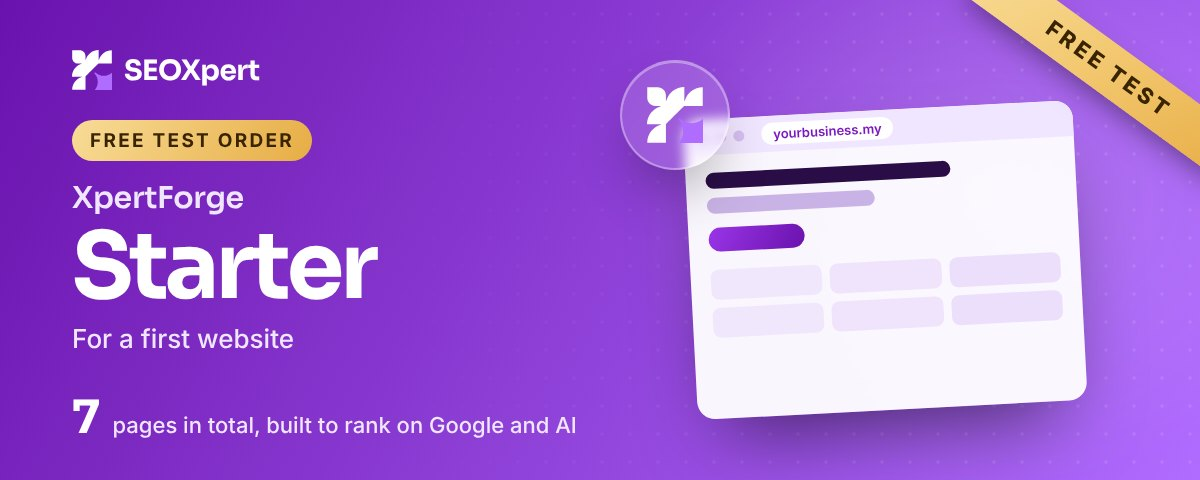
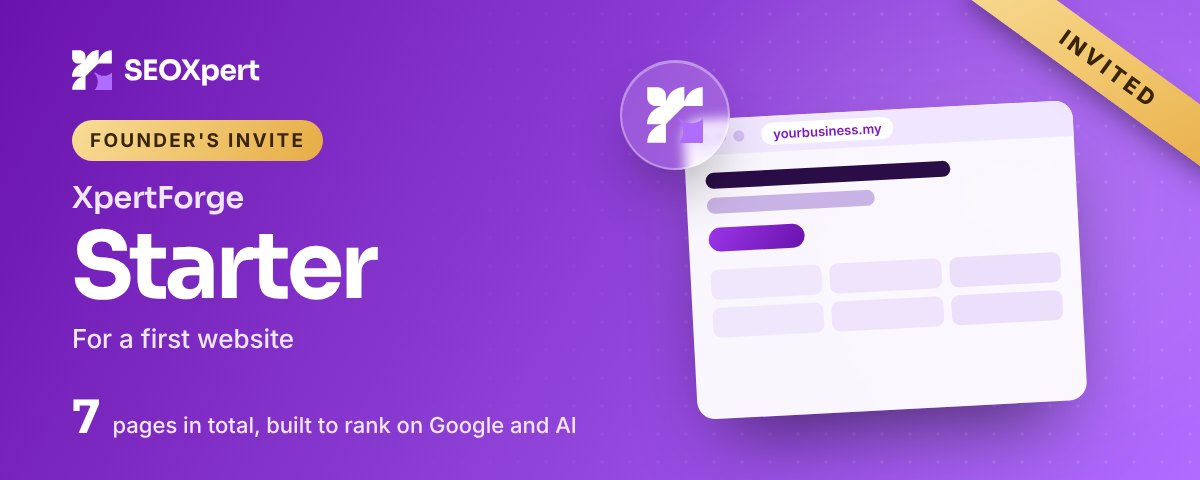
Order emails: richer paid emails, a personal 14-day founder's invite for free codes
Claude-Session: https://claude.ai/code/session_01UEox959XRaEh3eTcq7pdHm

diff --git a/functions/api/order-mail.js b/functions/api/order-mail.js
@@ -2,6 +2,9 @@
 // free codes and paid codes for all packages and all combos"). Sent by stripe-webhook.js, next to Stripe's own receipt.
 // One template; the header picture (public/img/mail/<package>[-free].jpg, made by scripts/make-mail.cjs), the steps and the
 // list of what is included change with the order:
+// Two voices (Suhen 2026-11-16): a PAID order gets the fuller, premium email (payment card, plan at a glance, button);
+// a FREE CODE order is a personal invite from our founder, 14 days only (XpertInsight stops the plan and the dashboard
+// after 14 days), and says to reach out for extra refreshes, bugs or ideas. A paid Trial is 14 days too and gets that line.
 //   trial      XpertRank Trial                         paid | free test code
 //   xpertrank  XpertRank Basic..Elite, website built elsewhere, monthly | yearly, paid | free
 //   build      XpertForge Starter/Business/Growth, paid in full (launch offer while it runs) | free
@@ -10,6 +13,9 @@
 // (it covers only a first paid month on websites we build, which is never bought here); never promise rankings.
 import { build, care, trial, yearly, offerOn } from '../../src/data/packages.ts';
 
+/** A founder's invite (free code) and the Trial both run this long. Keep matching GUEST_DAYS in xpertinsight lib/stripe.js. */
+export const GUEST_DAYS = 14;
+export const FOUNDER = 'Suhen';
 const SITE = 'https://seoxpert.my', INSIGHT = 'https://insight.seoxpert.my';
 const esc = (s) => String(s ?? '').replace(/[&<>"']/g, (c) => ({ '&': '&amp;', '<': '&lt;', '>': '&gt;', '"': '&quot;', "'": '&#39;' }[c]));
 const plain = (s) => String(s).replace(/<[^>]+>/g, '');
@@ -25,80 +31,103 @@ export function orderOf(o, { invited } = {}) {
   const name = String(box.name || (o.customer_details && o.customer_details.name) || '').trim();
   const t = kind === 'trial' ? trial : kind === 'build' ? build.tiers.find((x) => x.id === id) : care.tiers.find((x) => x.id === id);
   if (!t) return null;
-  return { kind, id, t, free, email, first: name.split(/\s+/)[0] || 'there', site: box.website || '', company: box.company || '', bill: m.bill || 'once', built: m.built === 'us' ? 'us' : 'other', paid: money(o.amount_total || 0, o.currency), full: money(o.amount_subtotal || o.amount_total || 0, o.currency), invited: invited !== false };
+  const at = (o.created ? o.created * 1000 : Date.now()), day = (ms) => new Date(ms).toLocaleDateString('en-GB', { day: 'numeric', month: 'long', year: 'numeric', timeZone: 'Asia/Kuala_Lumpur' });
+  return { date: day(at), ends: day(at + GUEST_DAYS * 864e5), ref: String(o.id || '').slice(-8).toUpperCase(), kind, id, t, free, email, first: name.split(/\s+/)[0] || 'there', site: box.website || '', company: box.company || '', bill: m.bill || 'once', built: m.built === 'us' ? 'us' : 'other', paid: money(o.amount_total || 0, o.currency), full: money(o.amount_subtotal || o.amount_total || 0, o.currency), invited: invited !== false };
 }
 
 /** Subject, header picture, words and lists for one order. */
 export function content(d) {
   const { kind, t, free } = d, kw = t.kw;
-  const dash = `<a href="${INSIGHT}/welcome/" style="color:#7b18c1">XpertInsight dashboard</a>`;
+  const num = (row) => (String(row || '').match(/<b>([^<]+)<\/b>/) || [])[1] || '';
   const invite = d.invited ? 'Open the XpertInsight invite we just emailed you and set up your dashboard. It takes about 5 minutes.' : 'Our team sends your XpertInsight dashboard invite shortly. Setting it up takes about 5 minutes.';
   const work = 'We check your website every few days, fix what we find, and make SEO and AI search (LLM) optimisations when needed.';
-  const subFree = 'You used a free test code, so nothing was charged. Your plan runs for one month and then stops by itself, so you will never be charged for it.';
+  const reach = 'Feel free to reach out at any time: for an extra dashboard refresh, to report a bug, or to share an idea to make it better. Reply to this email or press Report in your dashboard. I read every message.';
+  // paying customers get the same direct line, said as a member perk (Suhen 2026-11-16: "make paid customers feel special too")
+  const member = 'As a paying member you have a direct line to me. Need a free extra dashboard refresh, found a bug, or have an idea to make it better? Feel free to reach out: reply to this email or press Report in your dashboard. I read every message.';
+  const guest = (what) => `I am ${FOUNDER}, the founder of SEOXpert, and I am personally inviting you to ${what}, free for ${GUEST_DAYS} days, as my guest.`;
+  const pass = `Nothing is charged and no card is needed. Your invite runs until ${d.ends} and then stops by itself.`;
+  const careTiles = [[String(kw), 'target keywords'], [num(t.rows[1]), 'SEO blog posts a month'], [num(t.rows[3]), 'AI search questions']];
   if (kind === 'trial') return {
-    pic: 'trial', subject: free ? 'Your free XpertRank Trial has started' : 'Your XpertRank Trial has started',
-    lead: `Thank you for trying XpertRank${d.site ? ` for ${esc(d.site)}` : ''}. For the next ${trial.days} days you have your own XpertInsight dashboard with real numbers from your website.`,
-    freeNote: free ? `You used a free test code, so nothing was charged. Your trial runs for ${trial.days} days and then stops by itself.` : '',
+    pic: 'trial', subject: free ? `${FOUNDER} invited you to try XpertRank, free for ${GUEST_DAYS} days` : 'Your XpertRank Trial has started',
+    head: free ? 'you are personally invited' : 'your XpertRank Trial has started',
+    lead: free ? guest(`try XpertRank${d.site ? ` on ${esc(d.site)}` : ''}`) + ' You get your own XpertInsight dashboard with real numbers from your website.' : `Thank you for trying XpertRank${d.site ? ` for ${esc(d.site)}` : ''}. For the next ${trial.days} days you have your own XpertInsight dashboard with real numbers from your website.`,
+    pass: free ? pass : '', reach,
+    tiles: [[String(trial.days), 'days'], [String(kw), 'keywords tracked'], [num(trial.rows[3]), 'pages audited']],
     steps: [invite, 'In the setup, add our robot email to your Google Search Console and Google Analytics, as the page shows you. Nothing else to install.', `Your dashboard fills in with your visitors, Google searches, site health, speed and your ${kw} keywords.`, free ? 'Like it? Choose a paid XpertRank plan on seoxpert.my at any time.' : `Choose a paid XpertRank plan before your trial ends and the ${d.paid} you paid comes off your first month.`],
-    incTitle: 'Your trial includes', inc: trial.rows,
+    incTitle: 'Your trial includes', inc: trial.rows, cta: ['See XpertRank plans', `${SITE}/packages/#xpertrank`],
   };
   if (kind === 'build') return {
-    pic: t.id, subject: free ? `Your free test order: ${t.name}` : `Your ${t.name} website is booked`, head: free ? 'thank you for testing our checkout' : '',
-    lead: free ? `Thank you for testing our checkout with ${t.name}.` : `Thank you${d.company ? `, ${esc(d.company)}` : ''}! Your ${t.name} website is paid in full, so we can start.`,
-    freeNote: free ? 'You used a free test code, so nothing was charged. This is a test order: our team will contact you before any work starts.' : '',
-    steps: free ? ['Our team will email you to check what you would like to do next.'] : ['Our team emails you shortly to plan your pages, words and pictures with you.', 'XpertCore, our own AI SEO advisor, guides our team on what to plan, write and mark up on every page, then our experts check it.', `You see your design and words before launch, with ${plain(t.rows[2] || '').replace(/\s*revision rounds?/, '')} revision rounds.`, 'We launch your website, ready for Google and AI search, and set up the extras below.'],
+    pic: t.id, subject: free ? `${FOUNDER} invited you: ${t.name}` : `Your ${t.name} website is booked`,
+    head: free ? 'you are personally invited' : `your ${t.name} website is booked`,
+    lead: free ? `I am ${FOUNDER}, the founder of SEOXpert. Thank you for trying our ${t.name} checkout as my guest.` : `Thank you${d.company ? `, ${esc(d.company)}` : ''}! Your ${t.name} website is paid in full, so we can start. We are glad to build it with you.`,
+    pass: free ? 'Nothing is charged. This is an invite order, so I will contact you myself before any work starts.' : '', reach: free ? 'Found a bug while ordering, or have an idea to make it better? Feel free to reach out: just reply to this email. I read every message.' : 'As our customer you have a direct line to me. A question, a change of mind or an idea for your website? Feel free to reach out: just reply to this email. I read every message.',
+    tiles: [[(t.short.match(/^\d+/) || [''])[0], 'pages in total'], [num(t.rows[2]), 'revision rounds'], ['30', 'days of free fixes']],
+    steps: free ? ['I will email you to ask what you would like to do next.'] : ['Our team emails you shortly to plan your pages, words and pictures with you.', 'XpertCore, our own AI SEO advisor, guides our team on what to plan, write and mark up on every page, then our experts check it.', `You see your design and words before launch, with ${num(t.rows[2])} revision rounds.`, 'We launch your website, ready for Google and AI search, and set up the extras below.'],
     offer: !free && offerOn() && t.free ? `Launch offer included: ${t.free}.` : '',
-    incTitle: `Your ${t.name} includes`, inc: [...t.rows, ...build.all],
+    incTitle: `Your ${t.name} includes`, inc: [...t.rows, ...build.all], cta: free ? null : ['See what we build', `${SITE}/website-design/`],
   };
   const yr = d.bill === 'year';
   const billing = free ? '' : yr ? `You paid ${d.paid} for 12 months (12 months for the price of ${yearly.pay}).` : `You pay ${d.paid} a month.`;
   const manage = free ? '' : 'Change your card, see invoices or cancel at any time from Your plan, Manage billing, in your dashboard.';
+  const open = ['Open your dashboard', `${INSIGHT}/welcome/`];
   if (kind === 'upgrade') return {
-    pic: t.id, subject: free ? `Your free month of ${t.name}` : `You are now on ${t.name}`, head: free ? `enjoy a free month of ${t.name}` : '',
-    lead: `Your XpertInsight dashboard has switched to ${t.name}, ${t.for.toLowerCase()} for your website.`,
-    freeNote: free ? subFree : '',
-    steps: [`Open your ${dash}. Your plan shows everything that is new.`, `We add your extra target keywords with you: ${kw} in total, optimised for Google and AI search (LLM) and tracked weekly.`, work],
+    pic: t.id, subject: free ? `${FOUNDER} invited you to ${t.name}, free for ${GUEST_DAYS} days` : `You are now on ${t.name}`,
+    head: free ? 'you are personally invited' : `you are now on ${t.name}`,
+    lead: free ? guest(`use ${t.name}`) + ' Your XpertInsight dashboard has already switched to it.' : `Thank you for upgrading. Your XpertInsight dashboard has switched to ${t.name}, ${t.for.toLowerCase()} for your website.`,
+    pass: free ? pass : '', reach: free ? reach : member, tiles: careTiles,
+    steps: ['Open your XpertInsight dashboard. Your plan shows everything that is new.', `We add your extra target keywords with you: ${kw} in total, optimised for Google and AI search (LLM) and tracked weekly.`, work],
     billing, manage, hosting: d.built === 'us' ? 'High speed cloud hosting included, as we built your website.' : '',
-    incTitle: `${t.name} includes`, inc: t.rows,
+    incTitle: `${t.name} includes`, inc: t.rows, cta: open,
   };
   return { // xpertrank, a website built elsewhere
-    pic: t.id, subject: free ? `Your free month of ${t.name}` : `Welcome to ${t.name}`, head: free ? `enjoy a free month of ${t.name}` : '',
-    lead: `Thank you for choosing ${t.name}, our expert SEO service${d.site ? `, for ${esc(d.site)}` : ''}.`,
-    freeNote: free ? subFree : '',
-    steps: [invite, `We choose your ${kw} target keywords with you. We optimise them for Google and AI search (LLM) and track them weekly.`, work, 'Every month you get your XpertRecap, a short PDF report of what changed and what we did.'],
-    billing, manage, incTitle: `${t.name} includes`, inc: t.rows,
+    pic: t.id, subject: free ? `${FOUNDER} invited you to ${t.name}, free for ${GUEST_DAYS} days` : `Welcome to ${t.name}`,
+    head: free ? 'you are personally invited' : `welcome to ${t.name}`,
+    lead: free ? guest(`use ${t.name}, our expert SEO service${d.site ? `, on ${esc(d.site)}` : ''}`) : `Thank you for choosing ${t.name}, our expert SEO service${d.site ? `, for ${esc(d.site)}` : ''}. You now have a team working on your website every month.`,
+    pass: free ? pass : '', reach: free ? reach : member, tiles: careTiles,
+    steps: [invite, `We choose your ${kw} target keywords with you. We optimise them for Google and AI search (LLM) and track them weekly.`, work, free ? `Like it? Choose a paid XpertRank plan on seoxpert.my before ${d.ends} to keep going.` : 'Every month you get your XpertRecap, a short PDF report of what changed and what we did.'],
+    billing, manage, incTitle: `${t.name} includes`, inc: t.rows, cta: d.invited && !free ? null : ['See XpertRank plans', `${SITE}/packages/#xpertrank`],
   };
 }
 
 /** The finished email: { to, subject, html, text }. */
 export function orderMail(o, opts) {
   const d = orderOf(o, opts); if (!d) return null;
-  const c = content(d), pic = `${SITE}/img/mail/${c.pic}${d.free ? '-free' : ''}.jpg`;
-  const summary = [['Package', d.t.name], ['Paid', d.free ? `Nothing (free test code, worth ${d.full})` : d.paid], ...(d.kind === 'xpertrank' || d.kind === 'upgrade' ? [['Billing', d.free ? 'One month, then it stops' : d.bill === 'year' ? 'Yearly' : 'Monthly']] : []), ...(d.site ? [['Website', d.site]] : [])];
-  const P = 'margin:0 0 14px;font-size:15px;line-height:1.6;color:#3a2f48';
+  const c = content(d), pic = `${SITE}/img/mail/${c.pic}${d.free ? '-free' : ''}.jpg`, sub = d.kind === 'xpertrank' || d.kind === 'upgrade';
+  const guestRun = d.free && d.kind !== 'build';
+  const summary = d.free
+    ? [['Invite', d.t.name], ['From', `${FOUNDER}, founder of SEOXpert`], ...(guestRun ? [['Runs', `${GUEST_DAYS} days, until ${d.ends}`]] : []), ['You pay', `Nothing (worth ${d.full})`], ...(d.site ? [['Website', d.site]] : [])]
+    : [['Package', d.t.name], ['Paid', d.paid], ...(sub ? [['Billing', d.bill === 'year' ? 'Yearly' : 'Monthly']] : []), ['Date', d.date], ...(d.site ? [['Website', d.site]] : [])];
+  const P = 'margin:0 0 14px;font-size:15px;line-height:1.6;color:#3a2f48', H2 = 'margin:24px 0 10px;font:700 17px Arial,sans-serif;color:#7b18c1';
+  const gold = 'background:#fdf3dc;background:linear-gradient(120deg,#fff3d1,#f8dc97)';
+  const tiles = `<table role="presentation" cellpadding="0" cellspacing="0" style="width:100%;margin:6px 0 4px"><tr>${c.tiles.map((x, i) => `<td width="33%" style="padding:0 ${i < 2 ? 8 : 0}px 0 0"><div style="border:1px solid #e8dcf5;border-radius:14px;padding:14px 8px;text-align:center"><div style="font:700 26px Arial,sans-serif;color:#7b18c1">${esc(x[0])}</div><div style="font-size:12.5px;color:#786c88;line-height:1.35">${esc(x[1])}</div></div></td>`).join('')}</tr></table>`;
+  const card = `<table role="presentation" cellpadding="0" cellspacing="0" style="width:100%;margin:20px 0 6px;border-radius:16px;${d.free ? gold : 'background:#2a0d47;background:linear-gradient(120deg,#2a0d47,#6a12ad)'}"><tr><td style="padding:18px 20px">
+<div style="font:700 12px Arial,sans-serif;letter-spacing:.1em;text-transform:uppercase;color:${d.free ? '#7a5200' : '#d9c2f5'};margin-bottom:10px">${d.free ? "Founder's invite" : '&#10003; Payment received'}</div>
+<table role="presentation" cellpadding="0" cellspacing="0">${summary.map((r) => `<tr><td style="padding:3px 18px 3px 0;color:${d.free ? '#7a5200' : '#d9c2f5'};font-size:14px">${esc(r[0])}</td><td style="padding:3px 0;font-size:14px;font-weight:700;color:${d.free ? '#3a2400' : '#ffffff'}">${esc(r[1])}</td></tr>`).join('')}</table>
+${c.pass ? `<p style="margin:10px 0 0;font-size:13.5px;line-height:1.5;color:#5a3a00">${esc(c.pass)}</p>` : ''}${c.billing ? `<p style="margin:10px 0 0;font-size:13.5px;line-height:1.5;color:#e6d6f8">${esc(c.billing)} ${esc(c.manage)}</p>` : ''}
+</td></tr></table>`;
   const html = `<!doctype html><html><body style="margin:0;background:#f4eefb;padding:24px 12px;font-family:Inter,Arial,sans-serif;color:#1a1026">
 <table role="presentation" width="100%" cellpadding="0" cellspacing="0"><tr><td align="center">
 <table role="presentation" width="600" cellpadding="0" cellspacing="0" style="max-width:600px;width:100%;background:#fff;border-radius:20px;overflow:hidden;box-shadow:0 20px 50px -30px rgba(90,20,160,.45)">
-<tr><td><img src="${pic}" width="600" alt="${esc(d.t.name)}${d.free ? ', free test order' : ', order confirmed'}" style="display:block;width:100%;height:auto;border:0"></td></tr>
+<tr><td><img src="${pic}" width="600" alt="${esc(d.t.name)}${d.free ? ", founder's invite" : ', paid, thank you'}" style="display:block;width:100%;height:auto;border:0"></td></tr>
 <tr><td style="padding:30px 32px 8px">
-<h1 style="margin:0 0 14px;font:700 24px/1.25 Arial,sans-serif;color:#1a1026">Hi ${esc(d.first)}, ${esc(c.head || c.subject.charAt(0).toLowerCase() + c.subject.slice(1))}.</h1>
+${d.free ? `<div style="font:700 12px Arial,sans-serif;letter-spacing:.12em;text-transform:uppercase;color:#a36b00;margin:0 0 8px">A personal invite from our founder</div>` : ''}
+<h1 style="margin:0 0 14px;font:700 24px/1.25 Arial,sans-serif;color:#1a1026">Hi ${esc(d.first)}, ${esc(c.head)}.</h1>
 <p style="${P}">${c.lead}</p>
-${c.freeNote ? `<p style="margin:0 0 18px;padding:14px 16px;border-radius:12px;background:#fdf3dc;color:#5a3a00;font-size:14.5px;line-height:1.55"><b>Free test order.</b> ${c.freeNote}</p>` : ''}
-${c.offer ? `<p style="margin:0 0 18px;padding:14px 16px;border-radius:12px;background:#f1e6ff;color:#4b0d80;font-size:14.5px;line-height:1.55"><b>${esc(c.offer)}</b></p>` : ''}
-<h2 style="margin:22px 0 10px;font:700 17px Arial,sans-serif;color:#7b18c1">What happens next</h2>
+${d.free ? card : ''}
+${c.offer ? `<p style="margin:0 0 6px;padding:14px 16px;border-radius:12px;background:#f1e6ff;color:#4b0d80;font-size:14.5px;line-height:1.55"><b>${esc(c.offer)}</b></p>` : ''}
+${d.free && d.kind === 'build' ? '' : `<h2 style="${H2}">${d.free ? 'Your invite at a glance' : d.kind === 'build' ? 'Your website at a glance' : 'Your plan at a glance'}</h2>${tiles}`}
+<h2 style="${H2}">What happens next</h2>
 <table role="presentation" cellpadding="0" cellspacing="0" style="width:100%">${c.steps.map((s, i) => `<tr><td valign="top" style="width:34px;padding:0 0 12px"><div style="width:24px;height:24px;border-radius:50%;background:#7b18c1;color:#fff;font:700 13px/24px Arial,sans-serif;text-align:center">${i + 1}</div></td><td style="padding:2px 0 12px;font-size:15px;line-height:1.55;color:#3a2f48">${s}</td></tr>`).join('')}</table>
-<h2 style="margin:14px 0 10px;font:700 17px Arial,sans-serif;color:#7b18c1">${esc(c.incTitle)}</h2>
+${c.cta ? `<table role="presentation" cellpadding="0" cellspacing="0" style="margin:6px 0 4px"><tr><td style="border-radius:999px;background:#7b18c1"><a href="${c.cta[1]}" style="display:inline-block;padding:13px 26px;font:700 15px Arial,sans-serif;color:#fff;text-decoration:none">${esc(c.cta[0])}</a></td></tr></table>` : ''}
+<h2 style="${H2}">${esc(c.incTitle)}</h2>
 <table role="presentation" cellpadding="0" cellspacing="0" style="width:100%">${c.inc.map((r) => `<tr><td valign="top" style="width:26px;padding:0 0 8px;color:#7b18c1;font-weight:700">&#10003;</td><td style="padding:0 0 8px;font-size:14.5px;line-height:1.5;color:#3a2f48">${r}</td></tr>`).join('')}</table>
 ${c.hosting ? `<p style="${P};margin-top:8px">${esc(c.hosting)}</p>` : ''}
-<table role="presentation" cellpadding="0" cellspacing="0" style="width:100%;margin:18px 0 6px;background:#f7f2fc;border-radius:14px"><tr><td style="padding:16px 18px">
-<div style="font:700 12px Arial,sans-serif;letter-spacing:.1em;text-transform:uppercase;color:#786c88;margin-bottom:8px">Your order</div>
-<table role="presentation" cellpadding="0" cellspacing="0">${summary.map((r) => `<tr><td style="padding:3px 18px 3px 0;color:#786c88;font-size:14px">${esc(r[0])}</td><td style="padding:3px 0;font-size:14px;font-weight:700">${esc(r[1])}</td></tr>`).join('')}</table>
-${c.billing ? `<p style="margin:10px 0 0;font-size:13.5px;color:#51465f">${esc(c.billing)} ${esc(c.manage)}</p>` : ''}
-</td></tr></table>
-<p style="${P};margin-top:18px">Questions? Just reply to this email and a real person at SEOXpert will answer.</p>
+${d.free ? '' : card}
+${c.reach ? `<p style="margin:18px 0 0;padding:14px 16px;border-radius:12px;background:#f7f2fc;font-size:14.5px;line-height:1.55;color:#3a2f48">${esc(c.reach)}</p>` : ''}
+<table role="presentation" cellpadding="0" cellspacing="0" style="margin:22px 0 6px"><tr><td valign="middle" style="padding-right:12px"><div style="width:44px;height:44px;border-radius:50%;background:#7b18c1;color:#fff;font:700 18px/44px Arial,sans-serif;text-align:center">${FOUNDER[0]}</div></td><td style="font-size:14.5px;line-height:1.45;color:#3a2f48">${d.free ? 'Glad to have you as my guest,' : 'Thank you for your trust,'}<br><b>${FOUNDER}</b>, Founder, SEOXpert<br><span style="color:#786c88;font-size:13px">Just reply to this email to reach me.</span></td></tr></table>
 </td></tr>
-<tr><td style="padding:18px 32px 26px;border-top:1px solid #efe6f8;font-size:13px;color:#786c88">SEOXpert · Websites built to rank on Google and AI · <a href="${SITE}" style="color:#7b18c1">seoxpert.my</a>${d.kind === 'build' ? '' : ` · <a href="${INSIGHT}/welcome/" style="color:#7b18c1">XpertInsight</a>`}<br>Stripe emails your receipt separately.</td></tr>
+<tr><td style="padding:18px 32px 26px;border-top:1px solid #efe6f8;font-size:13px;color:#786c88">SEOXpert · Websites built to rank on Google and AI · <a href="${SITE}" style="color:#7b18c1">seoxpert.my</a>${d.kind === 'build' ? '' : ` · <a href="${INSIGHT}/welcome/" style="color:#7b18c1">XpertInsight</a>`}${d.free ? '' : '<br>Stripe emails your receipt separately.'}</td></tr>
 </table></td></tr></table></body></html>`;
-  const text = [`Hi ${d.first},`, '', plain(c.lead), ...(c.freeNote ? ['', `Free test order. ${c.freeNote}`] : []), ...(c.offer ? ['', c.offer] : []), '', 'What happens next', ...c.steps.map((s, i) => `${i + 1}. ${plain(s)}`), '', c.incTitle, ...c.inc.map((r) => `- ${plain(r)}`), ...(c.hosting ? ['', c.hosting] : []), '', 'Your order', ...summary.map((r) => `${r[0]}: ${r[1]}`), ...(c.billing ? [`${c.billing} ${c.manage}`] : []), '', 'Questions? Just reply to this email.', '', 'SEOXpert', SITE].join('\n');
+  const text = [`Hi ${d.first}, ${c.head}.`, '', plain(c.lead), '', ...summary.map((r) => `${r[0]}: ${r[1]}`), ...(c.pass ? [c.pass] : []), ...(c.billing ? [`${c.billing} ${c.manage}`] : []), ...(c.offer ? ['', c.offer] : []), '', 'What happens next', ...c.steps.map((s, i) => `${i + 1}. ${plain(s)}`), ...(c.cta ? ['', `${c.cta[0]}: ${c.cta[1]}`] : []), '', c.incTitle, ...c.inc.map((r) => `- ${plain(r)}`), ...(c.hosting ? ['', c.hosting] : []), ...(c.reach ? ['', c.reach] : []), '', d.free ? 'Glad to have you as my guest,' : 'Thank you for your trust,', `${FOUNDER}, Founder, SEOXpert`, SITE].join('\n');
   return { to: d.email, subject: c.subject, html, text };
 }

diff --git a/functions/api/stripe-webhook.js b/functions/api/stripe-webhook.js
@@ -76,7 +76,7 @@ export async function onRequestPost({ request, env }) {
     m.next = kind === 'upgrade' ? m.next : r.ok ? `Done for you: ${r.invited} got their XpertInsight invite (${r.plan}). They set up their dashboard at /start/ and you get an email when it is ready. Next: choose their target keywords on the setup page.`
       : r.already ? 'Their XpertInsight invite was already sent.'
       : `The automatic XpertInsight invite did not go out (${r.why}). Send it on the setup page: "Let the client set it up" with ${r.plan || 'their plan'}.`;
-    if (m.free && ev.data.object.mode === 'subscription') m.next = (m.next ? m.next + ' ' : '') + (r.test ? 'Free test code: this plan stops by itself after its first month, so they are never charged.' : `Free test code: please check in Stripe that this plan is set to cancel after its first month${r.testError ? ` (${r.testError})` : ''}.`);
+    if (m.free && ev.data.object.mode === 'subscription') m.next = (m.next ? m.next + ' ' : '') + (r.test ? 'Free code (founder\'s invite): this plan stops by itself after 14 days, so they are never charged.' : `Free code: please check in Stripe that this plan is set to cancel after 14 days${r.testError ? ` (${r.testError})` : ''}.`);
   }
   if (!m || !env.RESEND_API_KEY) return new Response('ok');
   const html = `<div style="font-family:Arial,sans-serif;max-width:560px;margin:0 auto;padding:24px;color:#1a1026">

diff --git a/CLAUDE.md b/CLAUDE.md
@@ -32,7 +32,7 @@ Owner: Suhen (a beginner: explain in plain words, small steps, one question at a
 - Chat helper (floating button, every page; AI since Suhen 2026-11-16 "make the chatbot smarter", "use ai api if needed"): markup in `Base.astro`, logic at the end of `public/js/ui.js`. Typed questions go to `functions/api/chat.js` (Claude via `@anthropic-ai/sdk`, model `CHAT_MODEL`, default claude-haiku-5-5 (Suhen picked the cheapest, 2026-11-16), low effort, cached brief), which answers ONLY from `src/lib/chat-ai.js`: our hard rules (keep in step with this file) + prices from packages.ts + `/llms.txt` + the FAQ from `/chat.json`. Replies are JSON {reply, suggestions}; the browser shows a little Markdown and only links to our own pages. A visitor who types their email gets the chat emailed to contact@seoxpert.my (Resend, Reply-To them). Limits: 30 AI answers an hour per visitor, `CHAT_DAILY` (default 500) a day for the site (exact with an optional KV binding `CHAT_KV`); set a spend limit in the Anthropic console too. Without `ANTHROPIC_API_KEY`, with `CHAT=off`, or on any error, picked and typed questions answer from the FAQ (word matching, `SAME` synonyms, `INTENT` shortcuts) as before. Chips sit in ONE row that scrolls sideways (Suhen 2026-11-16: the topic area looked crowded): next questions, then "Topics" and "Talk to a person". Test the brief without spending: `CHAT_API=<a stand-in>` points the function at a mock.
 - Contact choices are WhatsApp, email and chat: `src/components/Cta.astro`, `src/pages/contact.astro`.
 - Contact page redone 2026-11-15 (Suhen): a "Three ways to start" row (new website, SEO for my website, Trial; prices from packages.ts) whose buttons pick the form choice; the form's "What do you need?" choices each show a short line (`data-hint`, `#chint`), `/contact/?need=website|both|seo|trial` picks one, and the values must match `NEEDS` in `functions/api/contact.js`. Build cards lead with the total page count (7, 15, 30 = website pages + blog posts; Suhen 2026-11-15). On the XpertInsight page only one plan box is open at a time (`<details name>` plus a fallback in insight.js). Suhen decided against a 4th build package (2026-11-15).
-- Online payments (Suhen asked 2026-11-15, Stripe, 2026-11-16): `functions/api/checkout.js` makes a Stripe Checkout page; the price always comes from packages.ts on the server (the browser only sends an id, RM/USD and month/year). What can be paid: the Trial (once), XpertForge builds (the FULL price before we start, Suhen 2026-11-16: "make it 100% pay before we start"; `BUILD_PAY`), and XpertRank for websites built elsewhere at `rmOther`/`usdOther` (monthly or yearly subscription). Websites we build start XpertRank after launch through a payment link our team makes in Stripe, so the lower price is never sold to anyone online. `functions/api/stripe-webhook.js` checks Stripe's signature and emails contact@seoxpert.my after each payment, failed renewal or cancellation (Resend). Pay buttons (`data-pay`, `.payon-only`, `public/js/pay.js`) are in the pages while `payments` in `src/config.ts` is true, but stay hidden until `GET /api/checkout` answers `on` (`ready()` in checkout.js): on seoxpert.my only with a LIVE key (`sk_live_`), on previews a test key is enough; `PAYMENTS=off` in Cloudflare turns them off. Hidden = the old contact buttons (`.payoff-only`). So switching to live keys needs no rebuild. After paying, people land on `/paid/` (noindex, not in the sitemap). Secrets in Cloudflare Pages: `STRIPE_SECRET_KEY`, `STRIPE_WEBHOOK_SECRET`. Promotion codes are allowed at checkout (for example to take the Trial price off a first month). Free test codes (Suhen 2026-11-16) are made on the XpertInsight team home: 100% off the first payment, once each; subscription checkouts ask for no card when nothing is due (`payment_method_collection: if_required`), XpertInsight stops such a plan after its first month, and the payment email says "Free test order" (the webhook also calls `/hooks/paid` for a free dashboard upgrade). Each code can be for one package (Suhen 2026-11-16): checkout sends a fixed product id per package (`pid` in `item()`: `seoxpert-trial`, `seoxpert-xpertrank-<id>`, `seoxpert-build-<id>`), and the code's coupon only applies to those products; when the product does not exist yet, checkout falls back to its own name and text. Order emails to the buyer (Suhen 2026-11-16, DRAFT until he approves the gallery https://claude.ai/artifact/HVGj2c37CHa8rfRH2XkXgR): `functions/api/order-mail.js` builds one per order (Trial, XpertRank built elsewhere monthly/yearly, XpertForge build, dashboard upgrade with `built` us/other; paid or free test code) with a header picture `public/img/mail/<package>[-free].jpg` from `node scripts/make-mail.cjs`; the webhook sends it after the team email. Hosting only for websites we built; no money-back promise in these emails. Checkout asks for full name, company and website (`fields()` in checkout.js; website optional for builds; Suhen 2026-11-16) and the payment email lists them. Automatic dashboard invite (Suhen 2026-11-16): after a Trial or XpertRank payment the webhook posts the session id to `insight.seoxpert.my/hooks/paid` (`invite()`), which checks it with Stripe and sends the XpertInsight self-setup invite with the paid plan; the team email says whether it went out. Builds stay manual. Needs a Cloudflare Access Bypass app for `insight.seoxpert.my/hooks`.
+- Online payments (Suhen asked 2026-11-15, Stripe, 2026-11-16): `functions/api/checkout.js` makes a Stripe Checkout page; the price always comes from packages.ts on the server (the browser only sends an id, RM/USD and month/year). What can be paid: the Trial (once), XpertForge builds (the FULL price before we start, Suhen 2026-11-16: "make it 100% pay before we start"; `BUILD_PAY`), and XpertRank for websites built elsewhere at `rmOther`/`usdOther` (monthly or yearly subscription). Websites we build start XpertRank after launch through a payment link our team makes in Stripe, so the lower price is never sold to anyone online. `functions/api/stripe-webhook.js` checks Stripe's signature and emails contact@seoxpert.my after each payment, failed renewal or cancellation (Resend). Pay buttons (`data-pay`, `.payon-only`, `public/js/pay.js`) are in the pages while `payments` in `src/config.ts` is true, but stay hidden until `GET /api/checkout` answers `on` (`ready()` in checkout.js): on seoxpert.my only with a LIVE key (`sk_live_`), on previews a test key is enough; `PAYMENTS=off` in Cloudflare turns them off. Hidden = the old contact buttons (`.payoff-only`). So switching to live keys needs no rebuild. After paying, people land on `/paid/` (noindex, not in the sitemap). Secrets in Cloudflare Pages: `STRIPE_SECRET_KEY`, `STRIPE_WEBHOOK_SECRET`. Promotion codes are allowed at checkout (for example to take the Trial price off a first month). Free test codes (Suhen 2026-11-16) are made on the XpertInsight team home: 100% off the first payment, once each; subscription checkouts ask for no card when nothing is due (`payment_method_collection: if_required`), XpertInsight stops such a plan after 14 days (a founder's invite, Suhen 2026-11-16), and the payment email says "Free test order" (the webhook also calls `/hooks/paid` for a free dashboard upgrade). Each code can be for one package (Suhen 2026-11-16): checkout sends a fixed product id per package (`pid` in `item()`: `seoxpert-trial`, `seoxpert-xpertrank-<id>`, `seoxpert-build-<id>`), and the code's coupon only applies to those products; when the product does not exist yet, checkout falls back to its own name and text. Order emails to the buyer (Suhen 2026-11-16, DRAFT until he approves the gallery https://claude.ai/artifact/HVGj2c37CHa8rfRH2XkXgR): `functions/api/order-mail.js` builds one per order (Trial, XpertRank built elsewhere monthly/yearly, XpertForge build, dashboard upgrade with `built` us/other; paid or free test code) with a header picture `public/img/mail/<package>[-free].jpg` from `node scripts/make-mail.cjs`; the webhook sends it after the team email. Paid orders get the fuller email (plan at a glance, payment card, member direct line); free code orders are a personal 14-day invite signed by the founder (`FOUNDER`, `GUEST_DAYS`); all say to reach out for extra refreshes, bugs or ideas. Hosting only for websites we built; no money-back promise in these emails. Checkout asks for full name, company and website (`fields()` in checkout.js; website optional for builds; Suhen 2026-11-16) and the payment email lists them. Automatic dashboard invite (Suhen 2026-11-16): after a Trial or XpertRank payment the webhook posts the session id to `insight.seoxpert.my/hooks/paid` (`invite()`), which checks it with Stripe and sends the XpertInsight self-setup invite with the paid plan; the team email says whether it went out. Builds stay manual. Needs a Cloudflare Access Bypass app for `insight.seoxpert.my/hooks`.
 - Contact form (Suhen asked 2026-11-11, same idea as CosmolinkOS): form in `src/pages/contact.astro`, styles at the end of `src/styles/page.css`, script `public/js/contact.js`, sending in the Cloudflare Pages Function `functions/api/contact.js` (Resend: one email to contact@seoxpert.my with Reply-To the visitor, one friendly copy to the visitor with the share picture). Secrets live only in Cloudflare Pages settings: `RESEND_API_KEY` (required), `TURNSTILE_SECRET_KEY` (optional spam check; its public key is `turnstileSiteKey` in `src/config.ts`). A hidden `company` box catches bots.
 - Links between pages: `src/components/Related.astro` (keyword link text) plus links inside the copy. A new page needs adding there, in the menu and footer (`Base.astro`) and in `llms.txt.ts`. The last footer line is unique per page with its keyword (`footLines` in `Base.astro`; Suhen, 2026-11-11): add a line for every new page or guide.
 - Big screens: write sizes in px. The build turns px into rem (`scripts/fluid-px.mjs` for stylesheets, `scripts/fluid-html.mjs` for style attributes) and `html{font-size}` in `site.css` grows above 1920px wide. Breakpoints stay in px. The desktop menu switches to the phone menu at 1200px.
